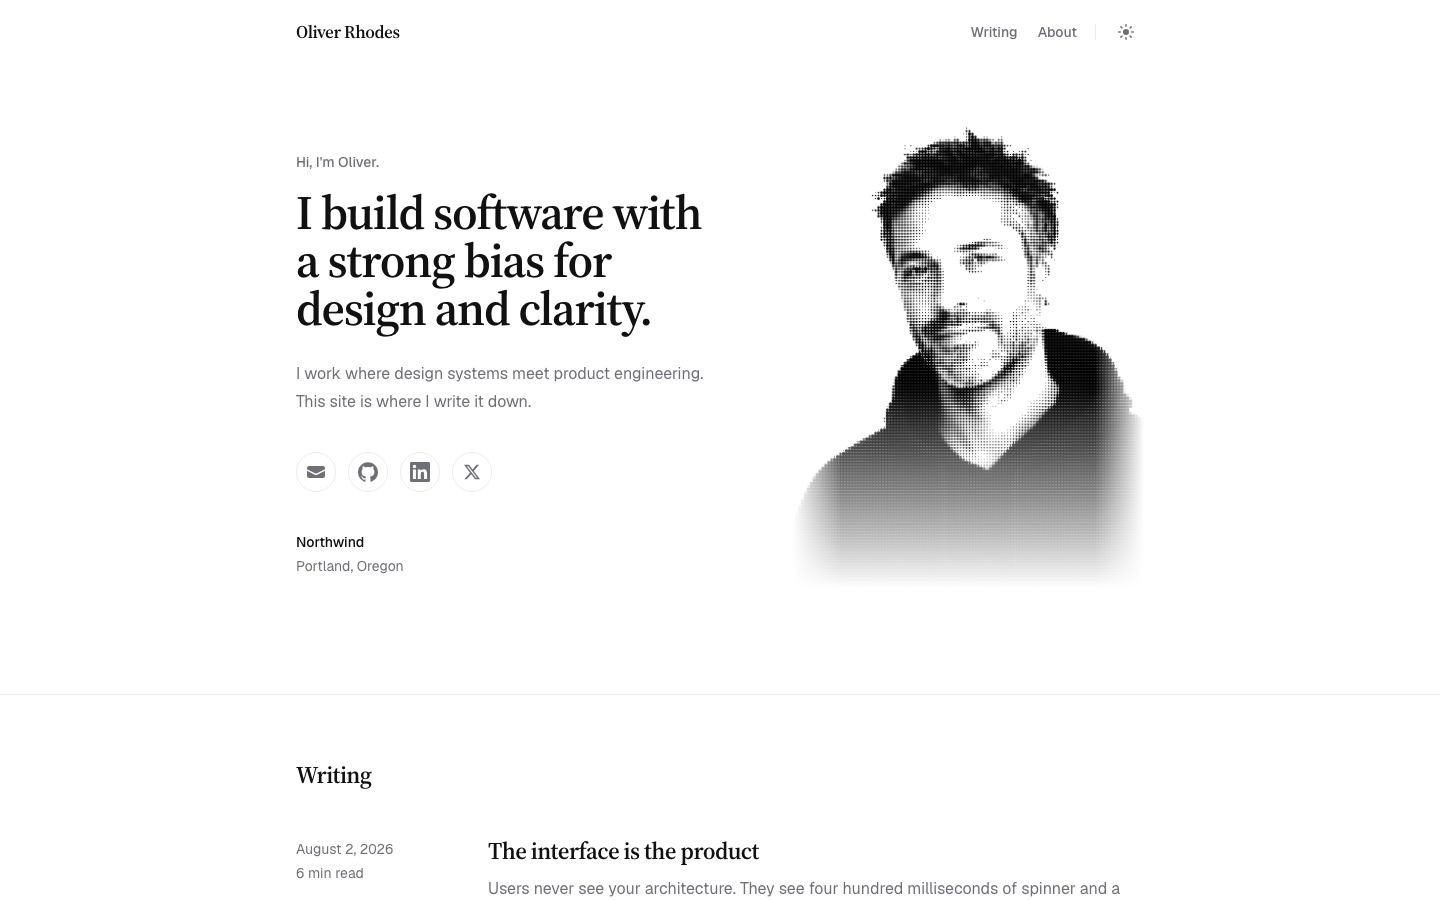
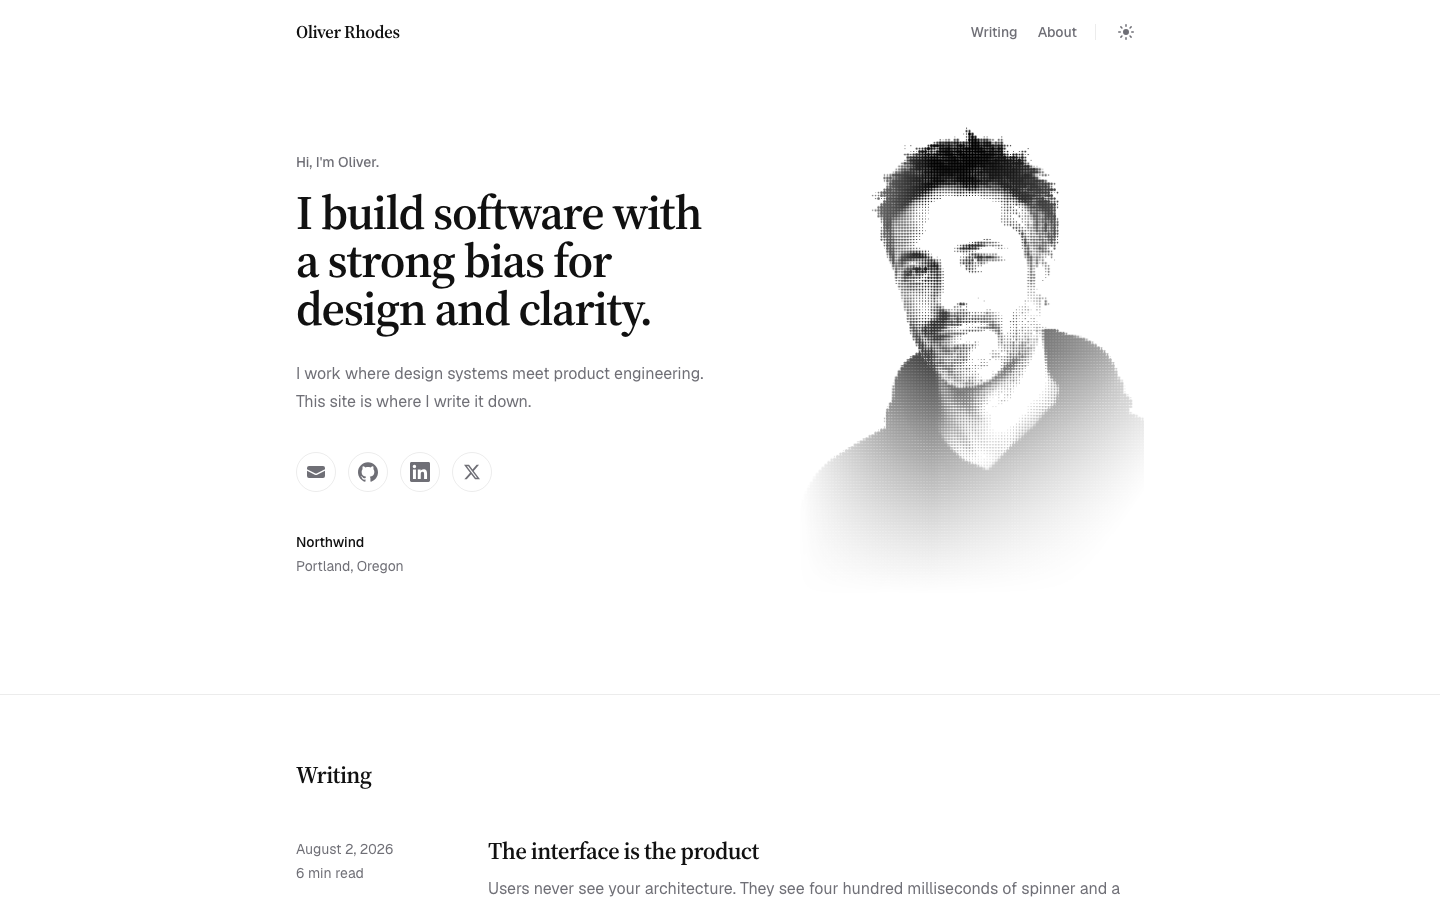
Portrait fade: diagonal dissolve from the bottom-right, strong left feather
The mask now sweeps from a fully-dissolved bottom-right corner up
toward the face, with a heavier fade-in from the left edge and a soft
bottom safety, so the hoodie melts along the diagonal instead of a
flat horizontal line. Thumbnail recaptured.

Changed region(s): [[0.5625, 0.1556, 0.8125, 0.6533], [0.6875, 0.1867, 0.75, 0.3111]]

diff --git a/files/resources/css/site.css b/files/resources/css/site.css
@@ -145,8 +145,9 @@ body {
 */
 @utility portrait-fade {
     mask-image:
-        linear-gradient(to bottom, black 55%, transparent 95%),
-        linear-gradient(to right, transparent 0%, black 14%, black 86%, transparent 100%);
+        linear-gradient(to top left, transparent 12%, black 68%),
+        linear-gradient(to right, transparent 2%, black 40%),
+        linear-gradient(to bottom, black 48%, transparent 96%);
     mask-composite: intersect;
 }
 
